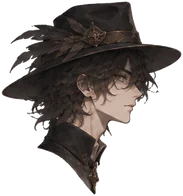
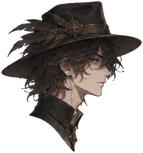
Скелетная анимация: голова меньше и крепится на шее, мягче движения головы жабы
Claude-Session: https://claude.ai/code/session_01WGwHuEswczfwkqMjt286YP

diff --git a/shared/battle/rig.js b/shared/battle/rig.js
@@ -4,8 +4,8 @@
 "use strict";
 var SRC=(document.currentScript&&document.currentScript.src)||"";
 var BASE=SRC.replace(/[^\/]*$/,"").replace(/\?.*$/,"")+"rig/";
-var V="?v=r3";
-var DEFS={"m_seer": {"W": 275, "H": 632, "parts": [{"id": "cape", "x": 0, "y": 154, "w": 212, "h": 246, "z": 1, "px": 110, "py": 11}, {"id": "leg_b", "x": 138, "y": 374, "w": 95, "h": 253, "z": 2, "px": 47, "py": 16}, {"id": "arm_b", "x": 91, "y": 179, "w": 77, "h": 257, "z": 3, "px": 38, "py": 22}, {"id": "leg_f", "x": 118, "y": 377, "w": 94, "h": 252, "z": 4, "px": 47, "py": 16}, {"id": "torso", "x": 47, "y": 146, "w": 207, "h": 262, "z": 5, "px": 105, "py": 258}, {"id": "head", "x": 84, "y": 0, "w": 183, "h": 196, "z": 6, "px": 61, "py": 187}, {"id": "arm_f", "x": 113, "y": 179, "w": 104, "h": 249, "z": 7, "px": 52, "py": 22}], "extra": [{"id": "cards", "x": 96, "y": 316, "w": 105, "h": 211}]}, "toad": {"W": 561, "H": 352, "parts": [{"id": "far", "x": 204, "y": 132, "w": 330, "h": 180, "z": 1, "px": 165, "py": 6}, {"id": "leg_b", "x": 374, "y": 105, "w": 202, "h": 242, "z": 2, "px": 99, "py": 16}, {"id": "body", "x": 160, "y": 6, "w": 340, "h": 274, "z": 3, "px": 170, "py": 274}, {"id": "jaw", "x": 33, "y": 132, "w": 218, "h": 151, "z": 4, "px": 94, "py": 11}, {"id": "head", "x": 6, "y": 6, "w": 256, "h": 216, "z": 5, "px": 160, "py": 176}, {"id": "leg_f", "x": 187, "y": 105, "w": 217, "h": 241, "z": 6, "px": 127, "py": 16}], "extra": []}};
+var V="?v=r4";
+var DEFS={"m_seer": {"W": 264, "H": 586, "parts": [{"id": "cape", "x": 6, "y": 110, "w": 212, "h": 246, "z": 1, "px": 99, "py": 11}, {"id": "leg_b", "x": 146, "y": 330, "w": 95, "h": 253, "z": 2, "px": 47, "py": 16}, {"id": "arm_b", "x": 80, "y": 135, "w": 77, "h": 257, "z": 3, "px": 38, "py": 22}, {"id": "leg_f", "x": 127, "y": 333, "w": 94, "h": 252, "z": 4, "px": 47, "py": 16}, {"id": "head", "x": 114, "y": 3, "w": 143, "h": 153, "z": 4.5, "px": 60, "py": 141}, {"id": "torso", "x": 52, "y": 102, "w": 207, "h": 262, "z": 5, "px": 105, "py": 253}, {"id": "arm_f", "x": 99, "y": 135, "w": 104, "h": 249, "z": 7, "px": 52, "py": 22}], "extra": [{"id": "cards", "x": 82, "y": 272, "w": 105, "h": 211}]}, "toad": {"W": 561, "H": 352, "parts": [{"id": "far", "x": 204, "y": 132, "w": 330, "h": 180, "z": 1, "px": 165, "py": 6}, {"id": "leg_b", "x": 374, "y": 105, "w": 202, "h": 242, "z": 2, "px": 99, "py": 16}, {"id": "body", "x": 160, "y": 6, "w": 340, "h": 274, "z": 3, "px": 170, "py": 274}, {"id": "jaw", "x": 33, "y": 132, "w": 218, "h": 151, "z": 4, "px": 94, "py": 11}, {"id": "head", "x": 6, "y": 6, "w": 256, "h": 216, "z": 5, "px": 160, "py": 176}, {"id": "leg_f", "x": 187, "y": 105, "w": 217, "h": 241, "z": 6, "px": 127, "py": 16}], "extra": []}};
 var reduce=false;try{reduce=matchMedia("(prefers-reduced-motion:reduce)").matches}catch(e){}
 function lowQ(){return reduce||window.LOTM_Q==="low"}
 function mk(c,css){var e=document.createElement("div");e.className=c;if(css)e.style.cssText=css;return e}
@@ -15,14 +15,14 @@ function T(a){ /* {id:"transform"} */return a}
 var POSES={
  m_seer:{
   idle:{},
-  dash:{torso:"rotate(9deg)",head:"rotate(8deg) translateX(4px)",arm_f:"rotate(-78deg)",arm_b:"rotate(38deg)",cape:"rotate(22deg)",leg_f:"rotate(-26deg)",leg_b:"rotate(30deg)"},
+  dash:{torso:"rotate(9deg)",head:"rotate(5deg)",arm_f:"rotate(-78deg)",arm_b:"rotate(38deg)",cape:"rotate(22deg)",leg_f:"rotate(-26deg)",leg_b:"rotate(30deg)"},
   cast:{torso:"rotate(-3deg)",head:"rotate(-5deg)",arm_f:"rotate(-96deg)",arm_b:"rotate(10deg)",cape:"rotate(9deg)"},
   buff:{torso:"translateY(-8px)",head:"rotate(-9deg)",arm_f:"rotate(-58deg)",arm_b:"rotate(-52deg)",cape:"rotate(14deg)"},
-  hit:{torso:"rotate(-9deg)",head:"rotate(-15deg)",arm_f:"rotate(16deg)",arm_b:"rotate(20deg)",cape:"rotate(16deg)",leg_f:"rotate(5deg)",leg_b:"rotate(-5deg)"}
+  hit:{torso:"rotate(-8deg)",head:"rotate(-10deg)",arm_f:"rotate(16deg)",arm_b:"rotate(20deg)",cape:"rotate(16deg)",leg_f:"rotate(5deg)",leg_b:"rotate(-5deg)"}
  },
  toad:{
   idle:{},
-  attack:{head:"translateX(-28px) rotate(-4deg)",jaw:"rotate(12deg) translateX(-12px)",leg_f:"rotate(-8deg)",body:"translateX(-6px)"},
+  attack:{head:"translateX(-12px) rotate(-5deg)",jaw:"rotate(11deg) translateX(-8px)",leg_f:"rotate(-8deg)",body:"translateX(-4px)"},
   hit:{body:"scale(1.03,.93)",head:"rotate(9deg) translateX(12px)",jaw:"rotate(10deg)",leg_f:"rotate(4deg)"}
  }
 };
@@ -30,14 +30,14 @@ var POSES={
 var IDLE={
  m_seer:[
   ["torso",[{transform:"translateY(0) scale(1)"},{transform:"translateY(-6px) scale(1.008,1.014)"}],2000],
-  ["head",[{transform:"rotate(0deg) translateY(0)"},{transform:"rotate(-1.6deg) translateY(-6px)"}],2200],
+  ["head",[{transform:"rotate(0deg) translateY(0)"},{transform:"rotate(-1.4deg) translateY(-3px)"}],2200],
   ["cape",[{transform:"rotate(0deg)"},{transform:"rotate(3.2deg)"}],2400],
   ["arm_f",[{transform:"rotate(1.5deg)"},{transform:"rotate(-2.6deg)"}],2600],
   ["arm_b",[{transform:"rotate(-1.2deg)"},{transform:"rotate(2.2deg)"}],2800]
  ],
  toad:[
   ["body",[{transform:"scale(1,1)"},{transform:"scale(1.008,1.03)"}],1700],
-  ["head",[{transform:"translateY(0) rotate(0deg)"},{transform:"translateY(-9px) rotate(-1.2deg)"}],2100],
+  ["head",[{transform:"translateY(0) rotate(0deg)"},{transform:"translateY(-3px) rotate(-1deg)"}],2100],
   ["jaw",[{transform:"scaleY(1)"},{transform:"scaleY(1.09)"}],1300],
   ["leg_f",[{transform:"rotate(0deg)"},{transform:"rotate(1.4deg)"}],2300],
   ["far",[{transform:"translateX(0)"},{transform:"translateX(-4px)"}],2500]

diff --git a/cemetery/battle/index.html b/cemetery/battle/index.html
@@ -12,7 +12,7 @@
 <script src="../../shared/skills.js"></script>
 <script src="../../shared/auth.js"></script>
 <script src="../../shared/sound.js?v=a7"></script>
-<script src="../../shared/battle/rig.js?v=r3"></script>
+<script src="../../shared/battle/rig.js?v=r4"></script>
 <script src="../../shared/battle/bscene.js?v=b9"></script>
 </head>
 <body>

diff --git a/forest/battle/index.html b/forest/battle/index.html
@@ -12,7 +12,7 @@
 <script src="../../shared/skills.js"></script>
 <script src="../../shared/auth.js"></script>
 <script src="../../shared/sound.js?v=a7"></script>
-<script src="../../shared/battle/rig.js?v=r3"></script>
+<script src="../../shared/battle/rig.js?v=r4"></script>
 <script src="../../shared/battle/bscene.js?v=b9"></script>
 </head>
 <body>

diff --git a/lake/battle/index.html b/lake/battle/index.html
@@ -12,7 +12,7 @@
 <script src="../../shared/skills.js"></script>
 <script src="../../shared/auth.js"></script>
 <script src="../../shared/sound.js?v=a7"></script>
-<script src="../../shared/battle/rig.js?v=r3"></script>
+<script src="../../shared/battle/rig.js?v=r4"></script>
 <script src="../../shared/battle/bscene.js?v=b9"></script>
 </head>
 <body>

diff --git a/ruins/battle/index.html b/ruins/battle/index.html
@@ -12,7 +12,7 @@
 <script src="../../shared/skills.js"></script>
 <script src="../../shared/auth.js"></script>
 <script src="../../shared/sound.js?v=a7"></script>
-<script src="../../shared/battle/rig.js?v=r3"></script>
+<script src="../../shared/battle/rig.js?v=r4"></script>
 <script src="../../shared/battle/bscene.js?v=b9"></script>
 </head>
 <body>
